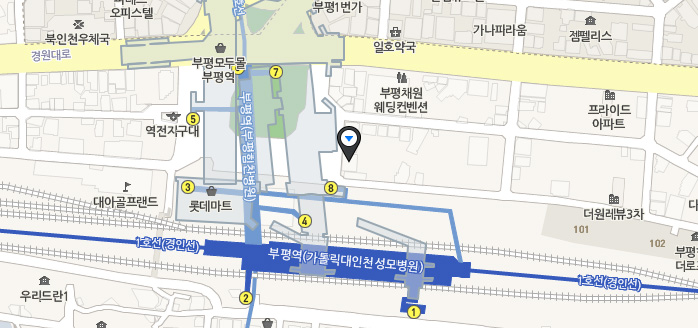
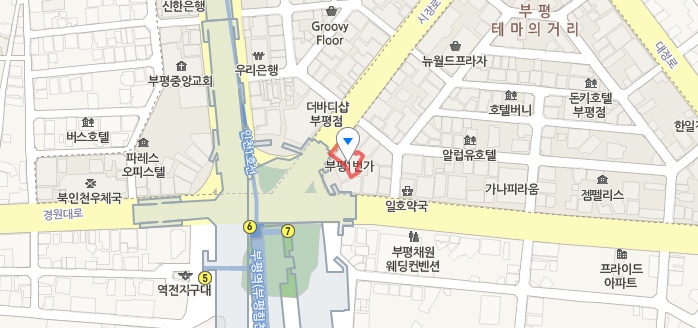
공무원 인천 캠퍼스 수정

diff --git a/application/controllers/willbes/site/Home.php b/application/controllers/willbes/site/Home.php
@@ -481,7 +481,7 @@ class Home extends \app\controllers\FrontController
                     '0' => ['MapPath' => img_url('gosi_acad/map/mapSeoul.jpg'),'Addr' => '서울 동작구 장승배기로 168 드림타워<br/>(서울 동작구 노량진동 54-11번지)','Tel' => '1544-0330'],
                     '1' => ['MapPath' => img_url('gosi_acad/map/mapBS.jpg'),'Addr' => '부산 진구 부정동 223-8','Tel' => '1522-8112'],
                     '2' => ['MapPath' => img_url('gosi_acad/map/mapDG.jpg'),'Addr' => '대구 중구 중앙대로 412(남일동) CGV 2층','Tel' => '1522-6112'],
-                    '3' => ['MapPath' => img_url('gosi_acad/map/mapIC.jpg'),'Addr' => '인천 부평구 부평동 534-28 중보빌딩 10층','Tel' => '1544-1661'],
+                    '3' => ['MapPath' => img_url('gosi_acad/map/mapIC.jpg'),'Addr' => '인천 부평구 경원대로 1395 부평1번가 11층','Tel' => '1544-1661'],
                     '4' => ['MapPath' => img_url('gosi_acad/map/mapKJ.jpg'),'Addr' => '광주 북구 호동로 6-11','Tel' => '062-514-4560']
                 ];
                 break;
